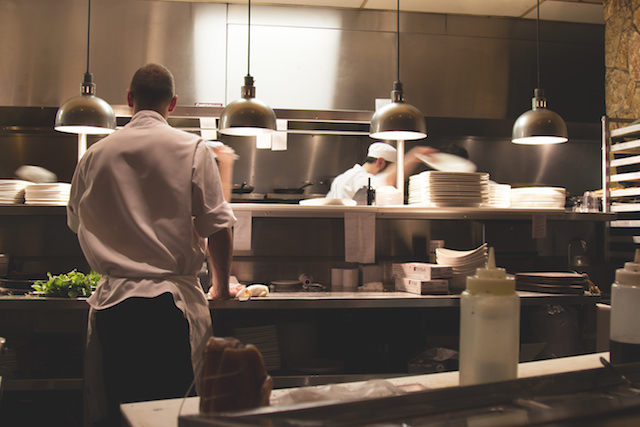
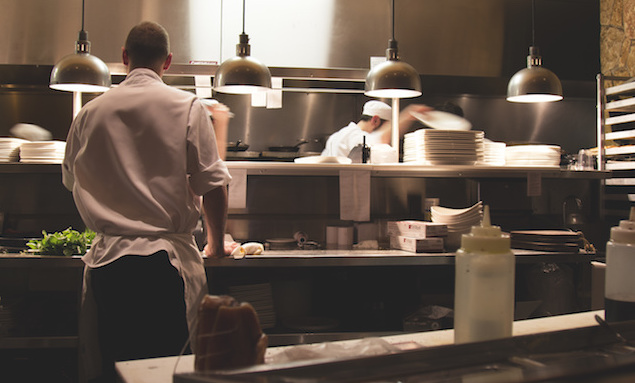
updates header css

diff --git a/styles/main.css b/styles/main.css
@@ -1,1 +1,1 @@
-html,body,div,span,object,iframe,h1,h2,h3,h4,h5,h6,p,blockquote,pre,abbr,address,cite,code,del,dfn,em,img,ins,kbd,q,samp,small,strong,sub,sup,var,b,i,dl,dt,dd,ol,ul,li,fieldset,form,label,legend,table,caption,tbody,tfoot,thead,tr,th,td,article,aside,canvas,details,figcaption,figure,footer,header,hgroup,menu,nav,section,summary,time,mark,audio,video{background:0 0;border:0;font-size:100%;margin:0;outline:0;padding:0;vertical-align:baseline}body{line-height:1}article,aside,details,figcaption,figure,footer,header,hgroup,menu,nav,section{display:block}nav ul{list-style:none}blockquote,q{quotes:none}blockquote:before,blockquote:after,q:before,q:after{content:'';content:none}a{background:0 0;font-size:100%;margin:0;padding:0;vertical-align:baseline}ins{text-decoration:none}ins,mark{background-color:#ff9;color:#000}mark{font-style:italic;font-weight:700}del{text-decoration:line-through}abbr[title],dfn[title]{border-bottom:1px dotted;cursor:help}table{border-collapse:collapse;border-spacing:0}hr{border:0;border-top:1px solid #ccc;display:block;height:1px;margin:1em 0;padding:0}input,select{vertical-align:middle}html{-o-box-sizing:border-box;box-sizing:border-box}*{box-sizing:inherit}* *:before,* *:after{box-sizing:inherit}.index{position:relative;top:30%;text-align:-webkit-center;text-align:center;color:#fff}.index h3{font:400 2.85rem/1.3 'Arizonia',Helvetica,sans-serif}@media only screen and (min-width:400px){.index h3{font-size:3.5rem}}@media only screen and (min-width:620px){.index h3{font-size:5.125rem}}.nav{font-size:0;position:fixed;z-index:10;right:0;bottom:0;width:100%;height:60px;margin:0;padding:0 20px;background-color:#000}.nav .nav-group{display:inline-block;width:100%;text-align:-webkit-center;text-align:center;vertical-align:middle}@media only screen and (min-width:840px){.nav .nav-group{text-align:-webkit-right;text-align:right}}.nav::before{display:inline-block;height:100%;content:'';vertical-align:middle}.nav .nav-links{font-size:initial}.nav .nav-link{font-weight:400;display:inline-block;margin:0 4px;text-decoration:none;color:#fff}.nav .nav-link:hover{border-bottom:solid 1px #fff}.nav .nav-link:focus{outline:none}.nav .active{border-bottom:solid 1px #fff}.menu,.order{padding-top:15px;padding-bottom:15px;opacity:.8;color:#84634c;background-color:#fff}.order{margin-bottom:60px}.menu{display:-webkit-flex;display:flex;margin-bottom:30px}.table{background-color:#fff}.menu-categories{margin-top:30px;margin-bottom:20px;opacity:.8}.menu-categories a{font-size:1rem;margin-right:10px;text-decoration:none;color:#fff}.menu-categories a:hover,.menu-categories a:active,.menu-categories a:focus{padding-bottom:3px;border-bottom:1px solid #fff;outline:none}.menu-categories .active{padding-bottom:3px;border-bottom:1px solid #fff}.menu-categories .cart{float:right;margin-right:0;padding-bottom:4px}.menu-categories .cart>span:first-child{margin-right:5px}@media only screen and (min-width:400px){.cart-icon{display:none}}.cart-text{display:none}@media only screen and (min-width:400px){.cart-text{display:initial}}.menu-items-table{font-size:.75rem}.menu-items-table th:first-of-type{display:none}@media only screen and (min-width:840px){.menu-items-table th:first-of-type{display:table-cell}}.menu-items-table th:nth-child(3){display:none}@media only screen and (min-width:400px){.menu-items-table th:nth-child(3){display:table-cell}}.menu-items .image{display:none}@media only screen and (min-width:840px){.menu-items .image{display:table-cell}}.menu-items .image img{width:125px}.menu-items .description{display:none}@media only screen and (min-width:400px){.menu-items .description{display:table-cell}}.qty-input{width:34px;height:34px;text-align:-webkit-center;text-align:center;color:#000;border-radius:4px}.order-items-template{overflow:hidden}#order-total{font-size:1.25rem;display:-webkit-flex;display:flex;float:right;padding-top:10px;border-top:1px solid #b4b5b3;-webkit-align-items:center;align-items:center}#order-total span{margin-right:5px}#order-total button{margin-left:5px}.remove:parent{text-align:-webkit-center;text-align:center}.table>tbody>tr:hover{background-color:initial}input[type=number]::-webkit-inner-spin-button,input[type=number]::-webkit-outer-spin-button{opacity:1}html,body,.app,.page{font-family:'Gill Sans',Helvetica,sans-serif;height:100%}.page{overflow:scroll;margin-bottom:60px;color:#fff;background:linear-gradient(rgba(0,0,0,.5),rgba(0,0,0,.5)),url("./../images/image-cover.jpeg") no-repeat center;background-position-y:-100px;background-size:cover}.center{text-align:-webkit-center;text-align:center}.right{float:right}.clearfix:before,.clearfix:after{display:block;content:''}.clearfix:after{clear:both}.btn-success.add{color:#96bb46;border-color:#96bb46;background-color:transparent}.btn-success.add:active,.btn-success.add:focus{-o-box-shadow:none;box-shadow:none;outline:0!important}.btn-success.add:hover{color:#fff;border-color:transparent;background-color:#96bb46}.btn-danger.remove{color:#b95956;border-color:#b95956;background-color:transparent}.btn-danger.remove:active,.btn-danger.remove:focus{-o-box-shadow:none;box-shadow:none;outline:0!important}.btn-danger.remove:hover{color:#fff;border-color:transparent;background-color:#b95956}.hidden{display:none}input[type='text'],input[type='number'],textarea{font-size:.75}
+html,body,div,span,object,iframe,h1,h2,h3,h4,h5,h6,p,blockquote,pre,abbr,address,cite,code,del,dfn,em,img,ins,kbd,q,samp,small,strong,sub,sup,var,b,i,dl,dt,dd,ol,ul,li,fieldset,form,label,legend,table,caption,tbody,tfoot,thead,tr,th,td,article,aside,canvas,details,figcaption,figure,footer,header,hgroup,menu,nav,section,summary,time,mark,audio,video{background:0 0;border:0;font-size:100%;margin:0;outline:0;padding:0;vertical-align:baseline}body{line-height:1}article,aside,details,figcaption,figure,footer,header,hgroup,menu,nav,section{display:block}nav ul{list-style:none}blockquote,q{quotes:none}blockquote:before,blockquote:after,q:before,q:after{content:'';content:none}a{background:0 0;font-size:100%;margin:0;padding:0;vertical-align:baseline}ins{text-decoration:none}ins,mark{background-color:#ff9;color:#000}mark{font-style:italic;font-weight:700}del{text-decoration:line-through}abbr[title],dfn[title]{border-bottom:1px dotted;cursor:help}table{border-collapse:collapse;border-spacing:0}hr{border:0;border-top:1px solid #ccc;display:block;height:1px;margin:1em 0;padding:0}input,select{vertical-align:middle}html{-o-box-sizing:border-box;box-sizing:border-box}*{box-sizing:inherit}* *:before,* *:after{box-sizing:inherit}.index{position:relative;top:30%;text-align:-webkit-center;text-align:center;color:#fff}.index h3{font:400 2.85rem/1.3 'Arizonia',Helvetica,sans-serif}@media only screen and (min-width:400px){.index h3{font-size:3.5rem}}@media only screen and (min-width:620px){.index h3{font-size:5.125rem}}.nav{font-size:0;position:fixed;z-index:10;right:0;bottom:0;width:100%;height:60px;margin:0;padding:0 20px;background-color:#000}.nav .nav-group{display:inline-block;width:100%;text-align:-webkit-center;text-align:center;vertical-align:middle}@media only screen and (min-width:840px){.nav .nav-group{text-align:-webkit-right;text-align:right}}.nav::before{display:inline-block;height:100%;content:'';vertical-align:middle}.nav .nav-links{font-size:initial}.nav .nav-link{font-weight:400;display:inline-block;margin:0 4px;text-decoration:none;color:#fff}.nav .nav-link:hover{border-bottom:solid 1px #fff}.nav .nav-link:focus{outline:none}.nav .active{border-bottom:solid 1px #fff}.menu,.order{padding-top:15px;padding-bottom:15px;opacity:.8;color:#84634c;background-color:#fff}.order{margin-bottom:60px}.menu{display:-webkit-flex;display:flex;margin-bottom:30px}.table{background-color:#fff}.menu-categories{margin-top:30px;margin-bottom:20px;opacity:.8}.menu-categories a{font-size:1rem;margin-right:10px;text-decoration:none;color:#fff}.menu-categories a:hover,.menu-categories a:active,.menu-categories a:focus{padding-bottom:3px;border-bottom:1px solid #fff;outline:none}.menu-categories .active{padding-bottom:3px;border-bottom:1px solid #fff}.menu-categories .cart{float:right;margin-right:0;padding-bottom:4px}.menu-categories .cart>span:first-child{margin-right:5px}@media only screen and (min-width:400px){.cart-icon{display:none}}.cart-text{display:none}@media only screen and (min-width:400px){.cart-text{display:initial}}.menu-items-table{font-size:.75rem}.menu-items-table th:first-of-type{display:none}@media only screen and (min-width:840px){.menu-items-table th:first-of-type{display:table-cell}}.menu-items-table th:nth-child(3){display:none}@media only screen and (min-width:400px){.menu-items-table th:nth-child(3){display:table-cell}}.menu-items .image{display:none}@media only screen and (min-width:840px){.menu-items .image{display:table-cell}}.menu-items .image img{width:125px}.menu-items .description{display:none}@media only screen and (min-width:400px){.menu-items .description{display:table-cell}}.qty-input{width:34px;height:34px;text-align:-webkit-center;text-align:center;color:#000;border-radius:4px}.order-items-template{overflow:hidden}#order-total{font-size:1.25rem;display:-webkit-flex;display:flex;float:right;padding-top:10px;border-top:1px solid #b4b5b3;-webkit-align-items:center;align-items:center}#order-total span{margin-right:5px}#order-total button{margin-left:5px}.remove:parent{text-align:-webkit-center;text-align:center}.table>tbody>tr:hover{background-color:initial}input[type=number]::-webkit-inner-spin-button,input[type=number]::-webkit-outer-spin-button{opacity:1}html,body,.app,.page{font-family:'Gill Sans',Helvetica,sans-serif;height:100%}.page{overflow:scroll;margin-bottom:60px;color:#fff;background:linear-gradient(rgba(0,0,0,.5),rgba(0,0,0,.5)),url("./../images/image-cover.jpeg") no-repeat top center;background-size:cover}.center{text-align:-webkit-center;text-align:center}.right{float:right}.clearfix:before,.clearfix:after{display:block;content:''}.clearfix:after{clear:both}.btn-success.add{color:#96bb46;border-color:#96bb46;background-color:transparent}.btn-success.add:active,.btn-success.add:focus{-o-box-shadow:none;box-shadow:none;outline:0!important}.btn-success.add:hover{color:#fff;border-color:transparent;background-color:#96bb46}.btn-danger.remove{color:#b95956;border-color:#b95956;background-color:transparent}.btn-danger.remove:active,.btn-danger.remove:focus{-o-box-shadow:none;box-shadow:none;outline:0!important}.btn-danger.remove:hover{color:#fff;border-color:transparent;background-color:#b95956}.hidden{display:none}input[type='text'],input[type='number'],textarea{font-size:.75}
